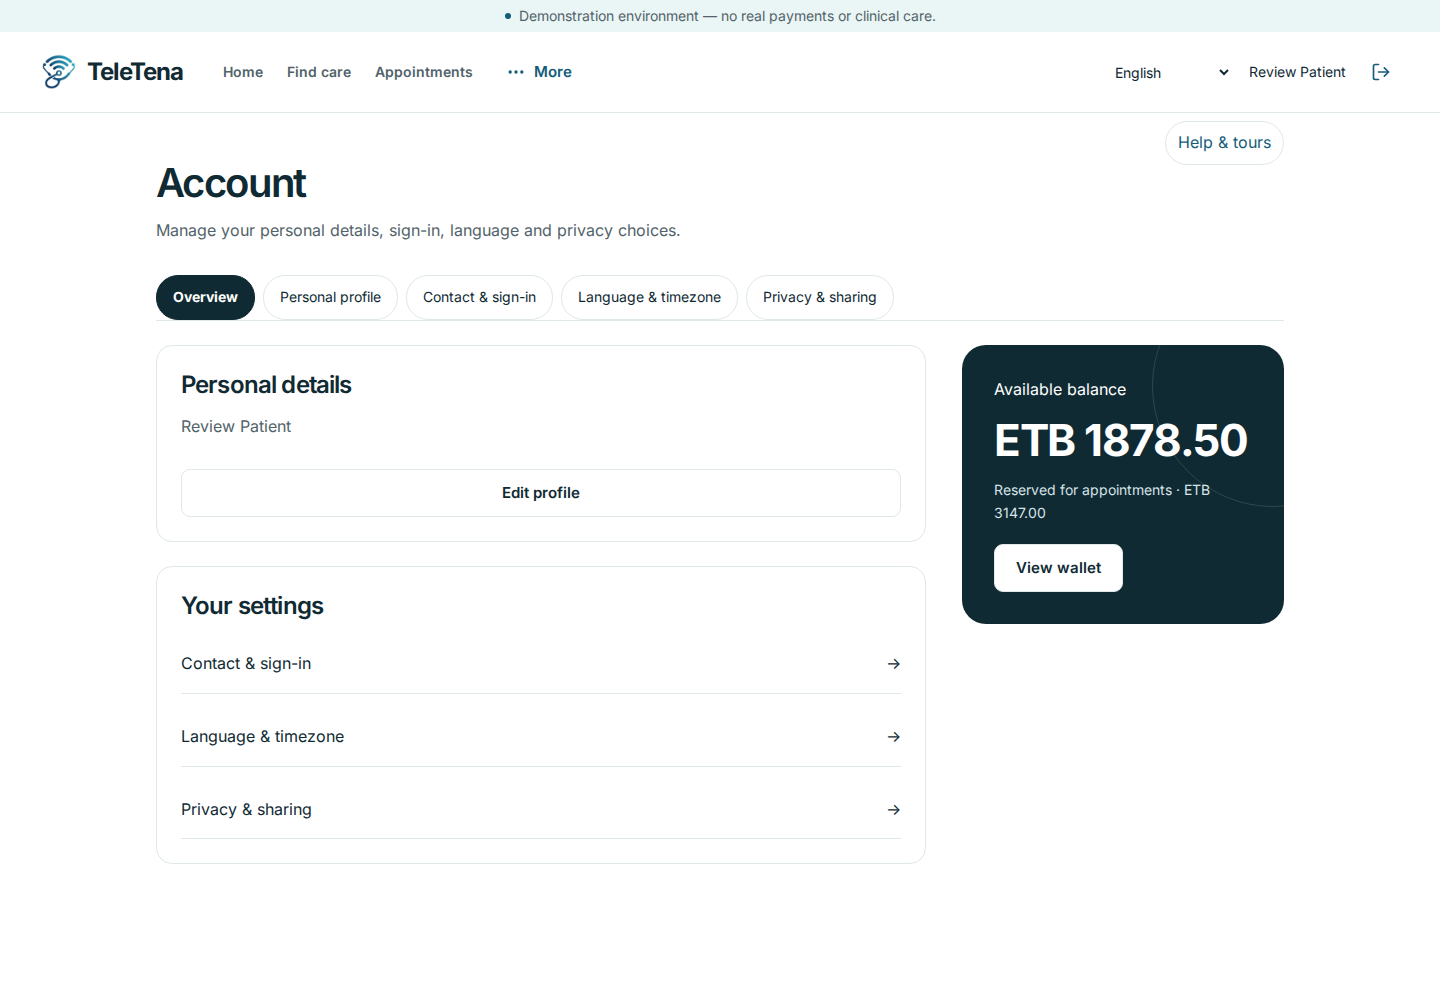
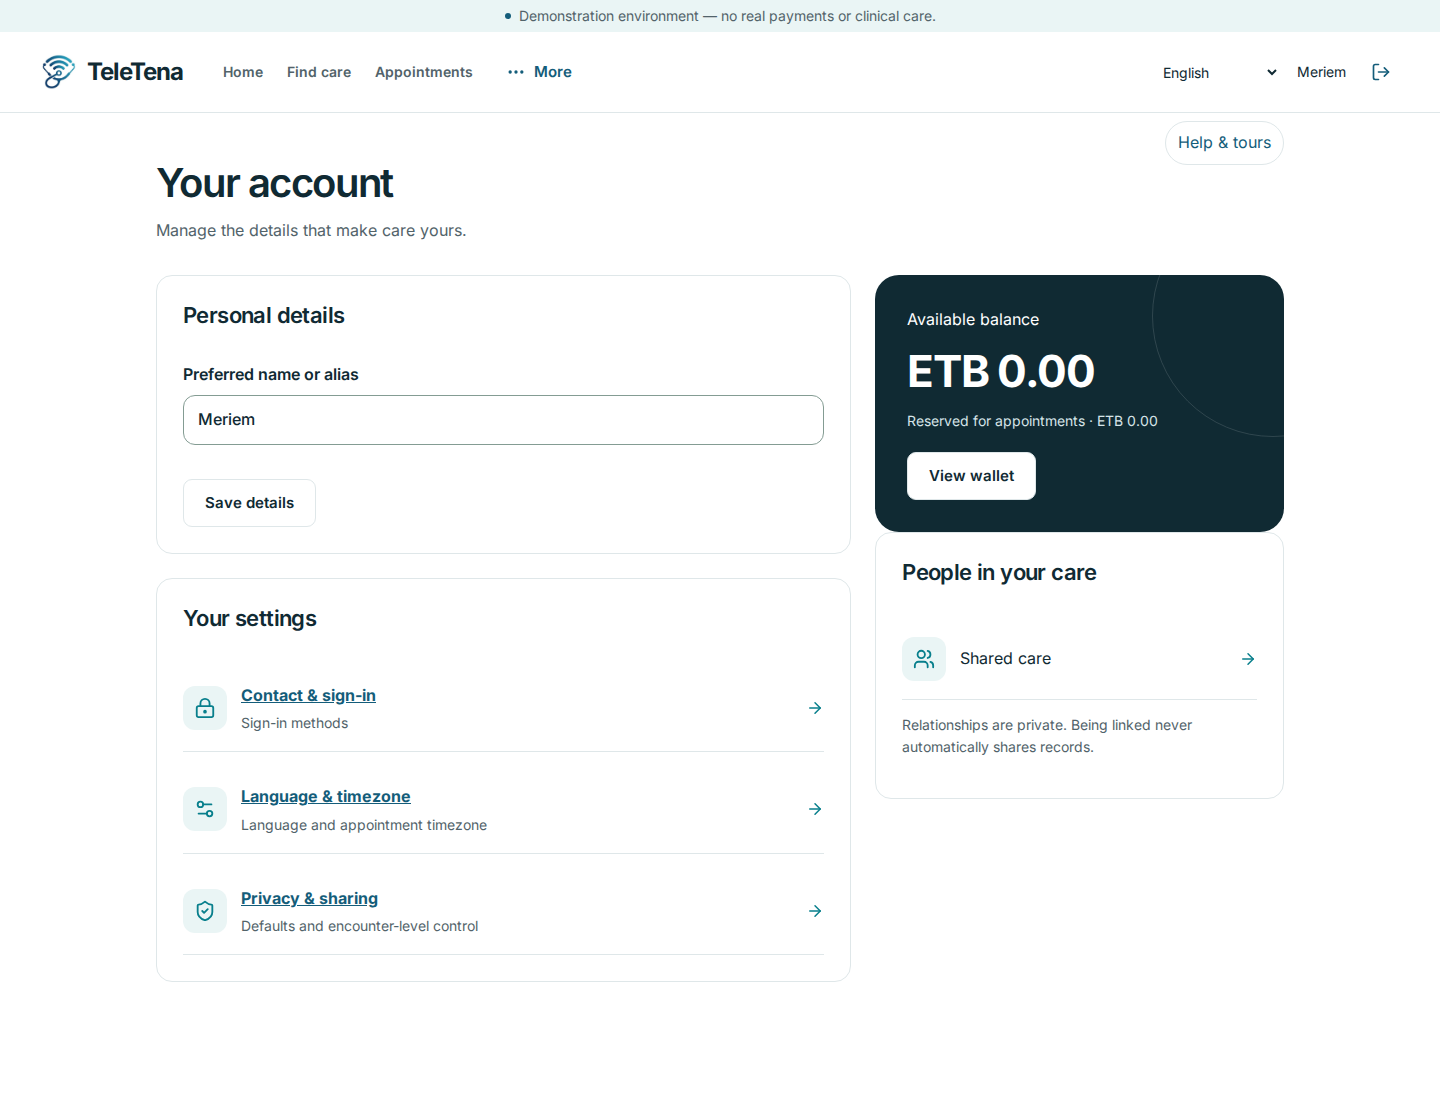
docs(mvp): record account appointment comparisons and native worker evidence

diff --git a/docs/mvp-journey-verification-2026-10-09.md b/docs/mvp-journey-verification-2026-10-09.md
@@ -8,8 +8,8 @@ keeps visual fidelity and functional journey acceptance independent.
 
 - Branch `feat/mvp-release-handover`, draft PR #44, dependent on draft PR #43.
   The preserved `1e8d161468eb8d3563f1b5743982722c749bbcbf` ancestor remains included.
-- Packaged application source **`53d7ec383670775829e7d5f8ec4c69571cebd708`**.
-  Subsequent evidence/documentation commits do not change its application code.
+- Packaged application source **`99886108d0cc9335749e3b4e19f75223e7f40852`**.
+  Account browser evidence below was captured at `7aa1ea9`; the latest appointment/documentation browser evidence uses this packaged source. Subsequent evidence/documentation commits do not change its application code.
 - **http://127.0.0.1:8017/teletena/**; site
   `tele-tena-pr12-fresh.localhost`; bench `/home/frappe/frappe/frappe-bench`.
 - Gunicorn master 392014, two site-bound loopback workers; working directory
@@ -18,13 +18,118 @@ keeps visual fidelity and functional journey acceptance independent.
   records the source and asset hashes. Preview HTTP 200 was checked.
 - Reference `/home/frappe/teletena-design-reference`, rendered read-only on 8044.
   Actual 142-screen inventory and source remain authoritative.
-- Existing data, credentials, historical records and source ancestry preserved.
+- Credentials and source ancestry preserved. Earlier fixture cleanup had a broad projection recalculation: the audit and narrow replacement are documented below; blanket historical financial-preservation claims are not established by those earlier runs.
   Additive note-sharing v1.31/v1.32 migrations were applied only to this isolated
   review site after backup; preservation checks are below. No balance repairs,
   retained fixture reseeding, merges or remote deployment.
   Intentional earlier browser deposits/bookings/requests/offers remain recorded.
 
-## Implemented and verified slices
+## Current account / appointment / native-worker checkpoint
+
+This section is the current checkpoint; earlier per-commit findings below are
+historical evidence, not an assertion that the entire MVP has passed.
+
+| Reference | Implemented and actual checks | Remaining fidelity / journey gaps |
+|---|---|---|
+| H01 account overview | Reference two-column personal/settings + dedicated wallet layout. Profile form Enter/save/reload, associated required-name errors, draft retention on aborted save, successful retry; MariaDB values checked | City/contact editing and working shared sessions missing; optional relationship link is not couples acceptance. Actual zero wallet differs from fictional reference amount |
+| H02 clinician account | Public name/care languages/private PDF resume and practice/affiliation routes | Reference portrait/introduction and richer profile editing still incomplete; no invented credentials |
+| H03 privacy | Global defaults and local disclosure preview; save/reload; no repeated wallet on tab | Reference age/alias controls exceed current name/history model; request override must remain independent |
+| H04 preferences | Associated language/timezone selects; persisted UTC; Amharic/Oromo mobile captures | Notification/accessibility preferences absent; native language approval pending |
+| E01 appointments | Reference tab geometry/title, correct public clinician name, status-based filters, view context across detail/Back/reload. Actual pre-start cancellation creates one release | Reference date/month grouping, remaining state/mobile/zoom coverage and coherent presentation content pending |
+| E02/E11/E13 | Current owned browser rechecks draft/reload, finalization, explicit note sharing, patient summaries, private amendment/history, route isolation, reviewer denial; one earning/completion posting | Owned Ended fixture is not actual media/End/revocation proof; couples recipients and live call chain pending |
+
+### Exact current checks
+
+- `scripts/check_mvp_account_browser.py` passed against packaged `7aa1ea9`.
+  390/768/1440 paired H01–H04 screenshots. Real Chromium **tab zoom** at
+  200% (1440 outer width, 720 CSS width, DPR2), paired application/reference.
+  The abort-on-save check is controlled transport failure, not proof of a real
+  server outage. Profile/defaults/preferences values were checked in MariaDB.
+- `scripts/check_mvp_notes_browser.py` passed against packaged `9988610`.
+  Real owned accounts and backend operations, appointment cancellation,
+  persisted notes/publication/amendment, patient and reviewer authorization,
+  delayed route isolation, 390/768/1440 paired appointment views.
+- `tests/appointment-groups.mjs` passed: no inferred completion, distinct
+  clinician documentation tasks, terminal precedence, state-based views.
+- `test_appointment_list_cancellation_actor_does_not_unmask_patient`
+  passed at `ed28dc2` after reproducing a missing SELECT projection causing
+  every clinician name to fall back to “Your clinician”. Cancellation actor
+  IDs are retained privately, not returned to unrelated participants.
+- Asset/hash/PWA scope scanner passed for `9988610`, including exact-value scan against four privately stored reviewer passwords; no match. No provider values were configured on this site.
+- Locked production build `scripts/build_review.py` passed for `9988610`.
+  Lint exits 0 with existing warnings; build retains >500KB chunk warning.
+  These are not visual acceptance.
+- Real supported PWA waiting/update flow passed **3bf96b1 → dfe9a2b**:
+  old application remained until explicit Refresh; new public bundle loaded;
+  no private/API cache paths. Not rerun as a physical-device check or claimed
+  as the specific `9988610` transition.
+
+### Native worker and preservation evidence
+
+`check_mvp_earnings_worker.py` passed at the `40579e7` checkpoint. Supported
+booking/finalization APIs created owned earnings with zero/one-minute policy
+snapshots in test-process memory only. The configured site policy, clock and
+retained records were not changed. The test waited through the real one-minute
+recorded release time, dispatched the installed `Scheduled Job Type` using
+`enqueue(force=True)`, and executed it in a separate native RQ worker restricted
+to a unique queue. Two executions produced **one** release journal; an open
+dispute held the other earning after its release boundary. A repeated payout
+request returned the same reservation; no external transfer occurred.
+
+The site's continuous scheduler is **disabled**. Shared worker/scheduler
+processes were not restarted, used or drained. This proves native forced
+dispatch and RQ execution, **not** a continuous cron tick or complete old-process
+cutover. Native Scheduled Job logs/last-execution retain execution evidence.
+The private owned queue/job was removed after completion.
+
+A test-harness audit found that inherited `Integration.tearDownClass` globally
+recomputed **all** financial account projections after fixture removal. This
+could conceal unrelated discrepancies. It has been replaced with subtraction
+of only the exact removed fixture journals' signed deltas under account locks.
+Unrelated owner values and pre-existing shared-control offsets are left intact.
+`check_fixture_financial_preservation.py` passes a rollback-only MariaDB
+regression with deliberately inconsistent **test-only** debit/credit/foreign
+accounts and retry cleanup. No persisted balance repair was made.
+
+The native worker run now compares exact pre/post row fingerprints for all
+12 financial/encounter tables (accounts, journals/lines, wallets/log, earnings,
+payouts, disputes, reconciliation, appointments, notes/revisions): **all matched**
+after owned cleanup. This is present-run preservation; it cannot retroactively
+prove that earlier global-cleanup runs never changed an inconsistent projection.
+Full legacy/opening-boundary reconciliation and fresh-site acceptance remain
+release gates. Original journals/records have not been rewritten for this fix.
+
+### Paired comparisons and current review steps
+
+Evidence: `docs/screenshots/mvp-connected-journeys/H01–H04-*` (source `7aa1ea9`)
+and `E01-{upcoming,completed,cancelled}-*` (source `9988610`). Desktop pairs were
+visually inspected. H01 now follows reference columns, wallet and settings rows;
+missing city/verified contact fields and incomplete shared-care workflow remain
+explicit differences. E01 follows reference heading/tabs; additional operational
+views, fuller facts, tour invitation and generic date grouping still differ.
+**Neither area is declared visually accepted.** No universal pixel-match score.
+
+Open **http://127.0.0.1:8017/teletena/** with existing private reviewer credentials.
+Use email → explicitly selected Password on this intentional invited-review site.
+Patient: Account → Privacy / Language & timezone; Appointments → view → consultation
+→ Back. Clinician: Account → professional details/private resume; Appointments →
+ended consultation → draft/preview/publication. Admin review access remains separate
+from private care records. Owned browser fixture credentials are temporary and
+removed; these tests do not seed a coherent retained presentation dataset.
+
+### Remaining release blockers
+
+All-MVP paired fidelity/state coverage; direct registration in a separate enabled
+policy with real backend controlled transport; coherent additive presentation
+content; working two-adult couples participant/consent/call/note authorization;
+current hosted LiveKit original/refreshed-token End regression; continuous
+site-scoped routing/release and safe old-writer cutover; current fresh install /
+representative owner-level legacy upgrade/repeat reconciliation. The preview
+stays invited-only. Live SMS/SMTP receipt, physical-device media/PWA, native
+translation and clinical taxonomy/rubric review remain external validation gaps.
+No merges, financial repairs or Selfmade changes in this checkpoint.
+
+## Earlier implemented and verified slices
 
 | Area | Implemented | Verification | Remaining |
 |---|---|---|---|

diff --git a/docs/mvp-delivery-tracker.md b/docs/mvp-delivery-tracker.md
@@ -736,3 +736,7 @@ preserve sharing history. Isolated-site backup/export and repeated migration che
 preserve clinical/appointment and financial rows. Fresh install and full couples
 recipient/call acceptance remain pending. See the active report; earlier pending
 private-note-sharing statements are superseded.
+
+## Current 9 October account / appointment / worker checkpoint
+
+Active source/evidence: [current journey verification](mvp-journey-verification-2026-10-09.md); packaged frontend `9988610`, draft PR #44 preserving PR #43. H01–H04 account/privacy/reference composition and real saves/errors, E01 status views/detail navigation/cancellation, and E02/E11/E13 note permissions/publication passed their focused owned browser checks. Paired comparisons retain explicit differences; visual acceptance is not complete. Native installed earnings job executed twice in a dedicated RQ worker, one release, dispute held, one payout reservation. Twelve retained-table pre/post fingerprints matched. Continuous scheduler remains disabled; forced dispatch is not daemon acceptance. Inherited test cleanup's global projection recalculation is removed; regression preserves unrelated discrepancies. Fresh/legacy cutover, couples, registration, hosted call, whole-MVP fidelity and coherent presentation data remain release gates.
